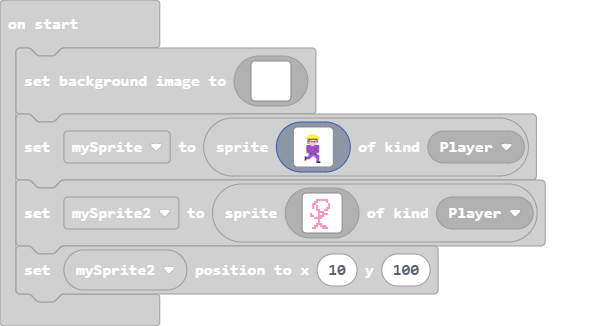
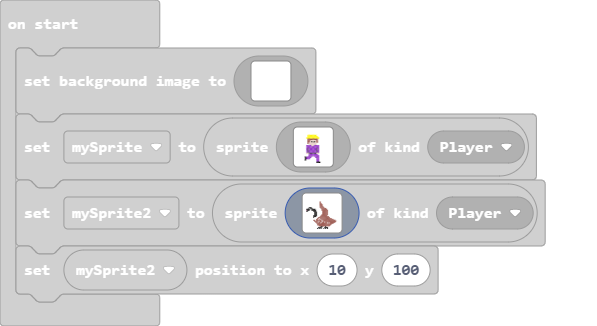
Update main.blocks, main.ts

Changed region(s): [[0.4523, 0.3681, 0.603, 0.7362]]

diff --git a/main.ts b/main.ts
@@ -155,22 +155,41 @@ mySprite = sprites.create(img`
     ...............fff.......
     `, SpriteKind.Player)
 let mySprite2 = sprites.create(img`
-    . . . . . . . . . . . . . . . . 
-    . . . . . 3 3 3 3 3 3 . . . . . 
-    . . . . 3 3 . . . . 3 . . . . . 
-    . . . 3 3 . . . . . . 3 . . . . 
-    . . . 3 . 3 . . . . . 3 . . . . 
-    . . . 3 . 3 . . . . 3 3 . . . . 
-    . . . . . 3 3 . . 3 3 . . . . . 
-    . . . . . . 3 3 3 . . . . . . . 
-    . . 3 . . . 3 . 3 3 3 . . . . . 
-    . . 3 3 . . 3 3 3 . . . . . . . 
-    . . . . 3 3 3 3 . . . . . . . . 
-    . . . . . . 3 . . . . . . . . . 
-    . . . . . . 3 . . . . . . . . . 
-    . . . . . 3 3 3 . . . . . . . . 
-    . . . . 3 3 . 3 3 3 . . . . . . 
-    . . . 3 3 . . . 3 3 3 . . . . . 
+    ..................................
+    ..................................
+    ..................................
+    ..................................
+    ..................................
+    ...............e..................
+    ...............e..................
+    ...............ee.................
+    ...............eee................
+    ...............eee................
+    ...............eeee...............
+    ...fff.........eeeee..............
+    ..f1fff.........eeeeee............
+    fffff1ffff.......eeeeee...........
+    3fff11fffff......eeeeeee..........
+    ff......fff.......eeeeee..........
+    .........fff......eeeeee..........
+    .........fff......eeeeee..........
+    .........fff......eeeeee..........
+    .........fff.....eeeeeee..........
+    ........ffff....eeeeeee...........
+    ........fff....eeeeeeeeee.........
+    ........f1111eeeeeeeeeeeee........
+    ........1111ee1eeeeeeeeeeeee......
+    ........111ee1e1eeeeeeeeeeeeee....
+    ........ee1eeeeee1eeeeeeeeeeeeee..
+    .........eeeee1eee1eeeeeeeeeeeeee.
+    ..........eee1eee1ee1eeeeeeeeeee..
+    ...........eeeee1eeeeee1e1eeee....
+    ............eeeeeeeeeeeeeeee......
+    ............eeeeeeeeeeeeeee.......
+    ..............eeeeeeeeeeee........
+    ................ff...f............
+    .............ffff...ffff..........
+    ............f.f.f..f.f.f..........
     `, SpriteKind.Player)
 mySprite2.setPosition(10, 100)
 forever(function () {
